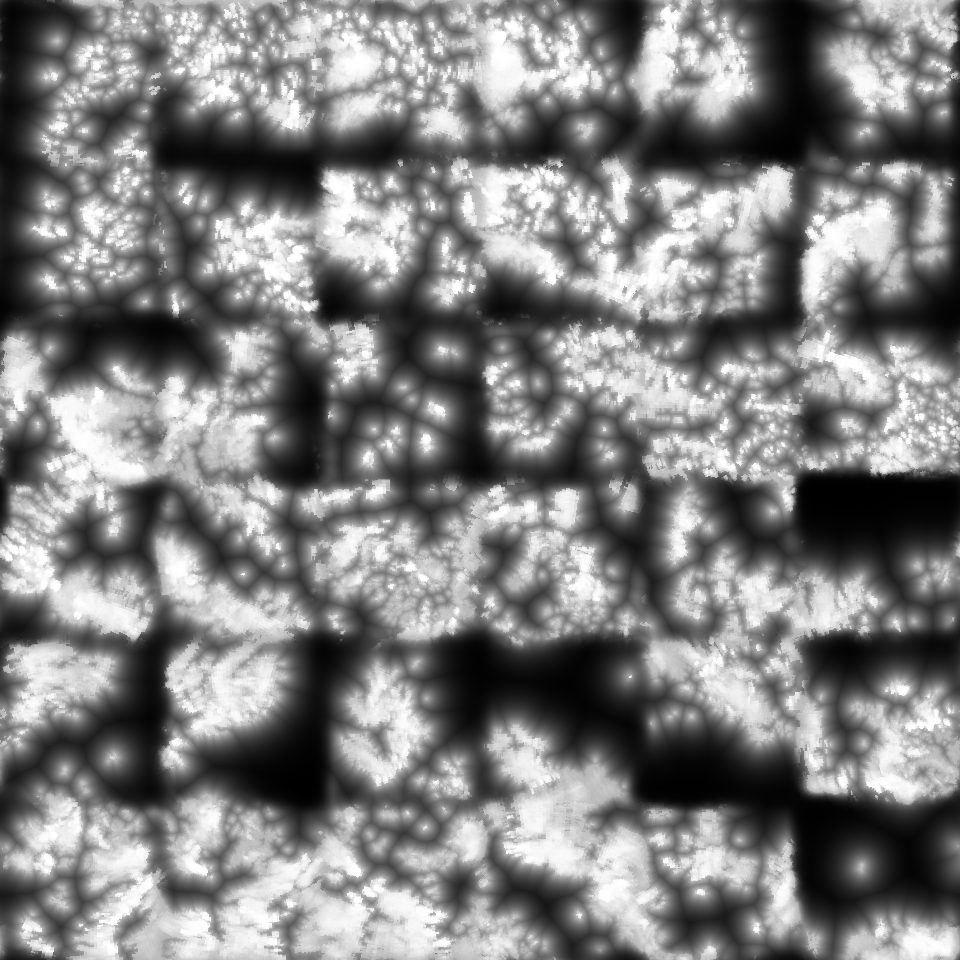
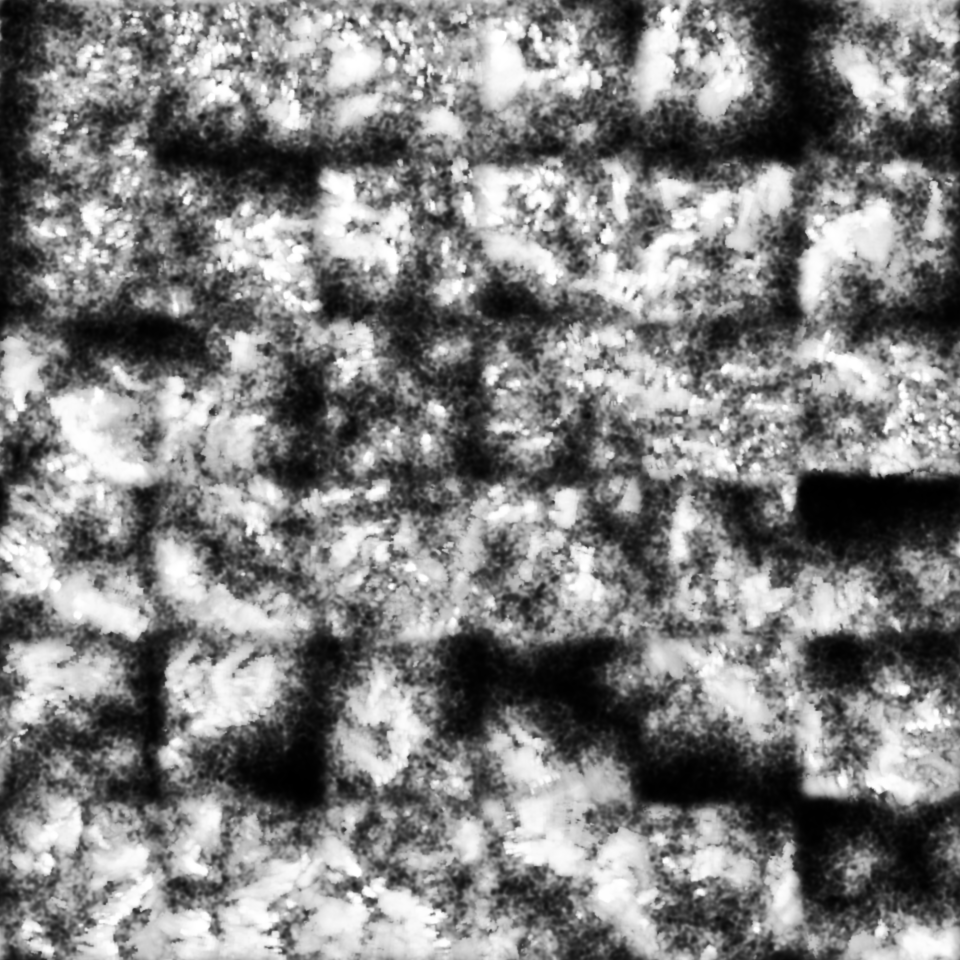
Radar Sandbox: realistic supercells and natural-looking painted rain
- Supercells get a dedicated reflectivity model: compact core with a
  tight inflow-side gradient, ragged forward-flank echo downwind/left,
  a hook wrapping cyclonically around a weak-echo hole at the rear-right
  that develops as the storm matures; textured with real-radar patterns.
  Less trailing stratiform and a realistic lightning rate.
- Ordinary cells: outer echo textured with the real-radar atlas (holes,
  fingers) instead of smooth noise rings.
- Painted rain: irregular per-stroke footprint, builds up through the
  physics instead of appearing instantly as a perfect blob.
- Rain atlas: dry areas carry multi-scale texture, so heavier rain grows
  ragged real-looking shapes; a coarse real-pattern envelope breaks
  rain-area outlines.

Claude-Session: https://claude.ai/code/session_01DKpUR6xtcj9CFzPuhxEyFT

Changed region(s): [[0.0, 0.0, 1.0, 1.0], [0.2812, 0.9375, 0.3438, 1.0]]

diff --git a/docs/radar-sandbox/js/radar.js b/docs/radar-sandbox/js/radar.js
@@ -35,7 +35,7 @@ function realDbz(v) {
 // Fraction of an area that is actually wet for a given areal-mean rain rate.
 // (Real radar: light areal rain is sparse showers; heavy areal rain is a
 // nearly continuous shield.)
-const wetFraction = r => clamp((r - 0.04) / (r + 1.2), 0, 0.92);
+const wetFraction = r => clamp((r - 0.04) / (r + 1.2), 0, 0.8);
 // The atlas's own wet fraction: a pixel's dBZ comes from its absolute place in
 // the real pattern, so sparse light rain stays weak and only heavy areal rain
 // reaches the cores.
@@ -169,11 +169,21 @@ export class Raster {
       } else {
         a = clamp(0.5 + 0.5 * fbm(this.nA, bil(tAx) / 30, bil(tAy) / 30, 5), 0, 1);
       }
-      const f = wetFraction(r);
+      // Coarse real pattern (5x scale) breaks rain-area outlines and makes
+      // heavy areas lumpy instead of smooth blobs following the forcing.
+      let env = 1;
+      if (atlas) {
+        let cz = 0;
+        if (wA > 0.01) cz += wA * (sampleWrap(atlas, bil(tAx) / 5 + 333, bil(tAy) / 5 + 777) - 0.5);
+        if (wB > 0.01) cz += wB * (sampleWrap(atlas, bil(tBx) / 5 + 333, bil(tBy) / 5 + 777) - 0.5);
+        const u = clamp(0.5 + cz * wN, 0, 1);
+        env = 0.2 + 1.6 * u * u;
+      }
+      const f = wetFraction(r * env);
       if (a < 1 - f) continue;
       // Real wet-pixel dBZ distribution, shifted by how heavy the rain is.
       const v = Math.min(0.985, (a - (1 - f)) / Math.max(f, F0));
-      const d = (ATLAS.rainQ ? realDbz(v) : 8 + 30 * v) + 4 * Math.log10(Math.max(r, 0.05) / 1.5);
+      const d = (ATLAS.rainQ ? realDbz(v) : 8 + 30 * v) + 4 * Math.log10(Math.max(r * env, 0.05) / 1.5);
       if (d < 4) continue;
       zlin[p] = Math.pow(10, d / 10);
       top[p] = clamp(this.elev[p] / 1000 + T[k] / 6.5 + 2.2 + 2 * v, 2, 9);
@@ -204,6 +214,8 @@ export class Raster {
       const ctop = sim.cellTop(c);
       const x0 = Math.max(0, Math.floor(cx - ext)), x1 = Math.min(W - 1, Math.ceil(cx + ext));
       const y0 = Math.max(0, Math.floor(cy - ext)), y1 = Math.min(H - 1, Math.ceil(cy + ext));
+      const RA = ATLAS.rain;
+      if (c.type === 'super') { this._supercell(c, dbzC, cx, cy, mpp, ct, st, sxo, syo, ctop); continue; }
       for (let y = y0; y <= y1; y++) for (let x = x0; x <= x1; x++) {
         const dx = (x + 0.5 - cx) * mpp, dy = -(y + 0.5 - cy) * mpp;
         const a = dx * ct + dy * st, b = -dx * st + dy * ct;
@@ -211,26 +223,63 @@ export class Raster {
         let hh = 1 + amp[2] * Math.cos(2 * ang + ph[2]) + amp[3] * Math.cos(3 * ang + ph[3]) + amp[4] * Math.cos(4 * ang + ph[4]) + amp[5] * Math.cos(5 * ang + ph[5]);
         hh += 0.22 * fbm(this.nB, (a + sxo) / 3.5, (b + syo) / 3.5, 3);
         const dn = Math.sqrt((a / e) ** 2 + b * b) / (rr * hh);
-        let z = 0, best = -99;
-        if (dn < 1.1) {
-          // Internal structure: secondary cores and ragged gradients.
-          const n2 = fbm(this.nC, (a + sxo) / 2.4, (b + syo) / 2.4, 3);
-          const d = dbzC - (dbzC - 11) * Math.pow(dn, 1.35) + (3 + 3.5 * dn) * n2;
-          if (d > 4) { z += Math.pow(10, d / 10); best = d; }
-        }
-        if (c.type === 'super') {
-          // Hook on the right-rear flank and a broad forward-flank echo.
-          const ha = a + 0.55 * rr, hb = b + 0.6 * rr, dh = Math.hypot(ha, hb) / (0.36 * rr);
-          if (dh < 1) { const d = dbzC - 7 - 22 * dh * dh; if (d > 4) { z += Math.pow(10, d / 10); best = Math.max(best, d); } }
-          const fa = a - 0.9 * rr, df = Math.sqrt((fa / 2.1) ** 2 + (b / 0.9) ** 2) / rr;
-          if (df < 1) { const d = dbzC - 17 - 18 * df * df + 3 * this.nC(a * 0.5 + sxo, b * 0.5); if (d > 4) { z += Math.pow(10, d / 10); best = Math.max(best, d); } }
-        }
-        if (z > 0) {
+        if (dn >= 1.25) continue;
+        const n2 = fbm(this.nC, (a + sxo) / 2.4, (b + syo) / 2.4, 3);
+        // Real-radar texture makes the outer echo ragged, with holes and fingers.
+        const tex = RA ? sampleWrap(RA, dx * 1.3 + sxo, dy * 1.3 + syo) : 0.5;
+        const d = dbzC - (dbzC - 11) * Math.pow(dn, 1.35) + (3 + 3.5 * dn) * n2 + 16 * (tex - 0.5) * Math.min(1, dn * 1.4);
+        if (d > 5) {
           const p = y * W + x;
-          zlin[p] += z;
-          if (best > 15) { const t = ctop * (1 - 0.55 * Math.min(1, dn * dn)); if (t > top[p]) top[p] = t; }
+          zlin[p] += Math.pow(10, d / 10);
+          if (d > 15) { const t = ctop * (1 - 0.55 * Math.min(1, dn * dn)); if (t > top[p]) top[p] = t; }
         }
       }
+    }
+  }
+
+  // Classic supercell reflectivity: compact core with a tight gradient on the
+  // inflow (right-front) side, a ragged forward-flank echo spreading downwind
+  // and left, and a hook wrapping cyclonically around a weak-echo hole at the
+  // rear-right. a = along motion (km), b = left of motion (km).
+  _supercell(c, dbzC, cx, cy, mpp, ct, st, sxo, syo, ctop) {
+    const { W, H, zlin, top } = this;
+    const RA = ATLAS.rain;
+    const Rc = c.r * 1.25;
+    const ext = Rc * 6 / mpp;
+    const x0 = Math.max(0, Math.floor(cx - ext)), x1 = Math.min(W - 1, Math.ceil(cx + ext));
+    const y0 = Math.max(0, Math.floor(cy - ext)), y1 = Math.min(H - 1, Math.ceil(cy + ext));
+    const Pa = -0.7 * Rc, Pb = -0.9 * Rc;                 // mesocyclone (hook pivot)
+    const phi0 = Math.atan2(-Pb, -Pa), SWEEP = 4.3;          // hook arc: from the core, around the rear
+    const grow = clamp((dbzC - 20) / 30, 0.25, 1);           // structure fills in as the storm matures
+    for (let y = y0; y <= y1; y++) for (let x = x0; x <= x1; x++) {
+      const dx = (x + 0.5 - cx) * mpp, dy = -(y + 0.5 - cy) * mpp;
+      const a = dx * ct + dy * st, b = -dx * st + dy * ct;
+      // Two scales of real-radar texture: cell-scale lumps and fine fingers.
+      const tex = RA ? 0.6 * sampleWrap(RA, dx * 2.2 + sxo, dy * 2.2 + syo) + 0.4 * sampleWrap(RA, dx * 6 + syo, dy * 6 + sxo) : 0.5;
+      const n2 = fbm(this.nC, (a + sxo) / 1.6, (b + syo) / 1.6, 3);
+      // Core.
+      const sa = a / (a > 0 ? (b < 0 ? 0.7 : 1.15) : 1.0), sb = b / (b < 0 ? 0.75 : 1.25);
+      const dc = Math.hypot(sa, sb) / Rc;
+      let dCore = dbzC - 30 * Math.pow(dc, 1.4) + 3 * n2 + 10 * (tex - 0.5) * Math.min(1, dc);
+      // Forward flank: downwind and rotated ~25 deg to the left.
+      const fa = (a * 0.906 + b * 0.423) - 1.6 * Rc, fb = (-a * 0.423 + b * 0.906) - 0.25 * Rc;
+      const df = Math.hypot(fa / (3.2 * Rc * grow + 0.5 * Rc), fb / (1.3 * Rc));
+      let dFF = (dbzC - 15) - 24 * Math.pow(df, 1.6) + 18 * (tex - 0.5) + 2.5 * n2;
+      // Hook and weak-echo hole.
+      const ha = a - Pa, hb = b - Pb, rho = Math.hypot(ha, hb) / Rc;
+      let sArc = (Math.atan2(hb, ha) - phi0 + 4 * Math.PI) % (2 * Math.PI) / SWEEP;
+      let dHook = -99;
+      if (sArc < 1 && grow > 0.5) {
+        const wdt = 0.28 * (1 - 0.5 * sArc), off = (rho - 0.6) / wdt;
+        dHook = dbzC - 9 - 20 * sArc - 14 * off * off + 6 * (tex - 0.5);
+      }
+      if (rho < 0.42) { const k = 28 * (1 - rho / 0.42) * grow; dCore -= k; dFF -= k; }
+      let z = 0, best = -99;
+      for (const d of [dCore, dFF, dHook]) if (d > 5) { z += Math.pow(10, d / 10); if (d > best) best = d; }
+      if (z <= 0) continue;
+      const p = y * W + x;
+      zlin[p] += z;
+      if (best > 15) { const t = ctop * (1 - 0.5 * Math.min(1, dc * dc / 4)); if (t > top[p]) top[p] = t; }
     }
   }
 

diff --git a/docs/radar-sandbox/js/sim.js b/docs/radar-sandbox/js/sim.js
@@ -733,7 +733,7 @@ export class Sim {
     const [su, sv] = [c.mvx, c.mvy], sl = Math.hypot(su, sv) + 1e-6;
     const env = this.cells.length; void env;
     // Trailing/anvil stratiform fallout behind the motion.
-    const stratK = c.type === 'line' ? 1 : c.type === 'multi' ? 0.6 : c.type === 'super' ? 0.6 : 0.35;
+    const stratK = c.type === 'line' ? 1 : c.type === 'multi' ? 0.6 : c.type === 'super' ? 0.3 : 0.35;
     const bgx = gx - su / sl * 1.6 * re / dxk, bgy = gy + sv / sl * 1.6 * re / dyk;
     for (let j = ja; j <= jb; j++) for (let i = ia; i <= ib; i++) {
       const k = j * NX + i;
@@ -810,7 +810,7 @@ export class Sim {
       // Lightning.
       const top = this.cellTop(c);
       if (dbz > 40 && top > 6) {
-        const perMin = Math.min(45, 0.45 * Math.exp((dbz - 45) / 4.2) * (top / 10) * (c.type === 'super' ? 1.8 : 1));
+        const perMin = Math.min(15, 0.3 * Math.exp((dbz - 45) / 4.5) * (top / 10));
         let lam = perMin * dt / 60;
         while (lam > 0) {
           if (rnd() < Math.min(1, lam)) {
@@ -931,10 +931,17 @@ export class Sim {
   }
 
   paintRain(lat, lon, km, strength) {
-    this._brush(lat, lon, km, (k, w) => {
+    // Irregular footprint (fixed per stroke) so painted rain never takes the
+    // brush's round shape; rain then builds up over the next minutes
+    // through the normal physics instead of appearing instantly.
+    const so = this.strokeSeed ?? 0, L = Math.max(8, km * 0.6);
+    this._brush(lat, lon, km, (k, w, j) => {
+      const i = k - j * this.NX;
+      const nz = 0.5 + 0.5 * fbm(this.mn, this.Xk[i] / L + so, this.Yk[j] / L - so, 3);
+      w *= clamp(1.8 * nz - 0.35, 0, 1.2);
+      if (w <= 0) return;
       this.Fz[k] = Math.min(1.2, this.Fz[k] + 0.12 * strength * w);
-      this.C[k] = Math.min(12, this.C[k] + 0.6 * strength * w);
-      this.R[k] = Math.max(this.R[k], this.C[k] * 4);
+      this.C[k] = Math.min(6, this.C[k] + 0.18 * strength * w);
       this.M[k] += (0.97 - this.M[k]) * Math.min(1, 0.5 * w);
       const qs = qsat(this.T[k]);
       this.q[k] += (0.95 * qs - this.q[k]) * Math.min(1, 0.4 * w);

diff --git a/docs/radar-sandbox/js/main.js b/docs/radar-sandbox/js/main.js
@@ -838,6 +838,7 @@ function setupPointer() {
       cv.style.cursor = 'grabbing';
     } else if (t === 'rain' || t === 'moist' || t === 'heat' || t === 'erase') {
       drag = { kind: 'paint', at: { lat, lon } };
+      sim.strokeSeed = Math.random() * 1000;
       lastPaint = performance.now();
       applyPaint(0.12);
       paintLoop = requestAnimationFrame(paintTick);
